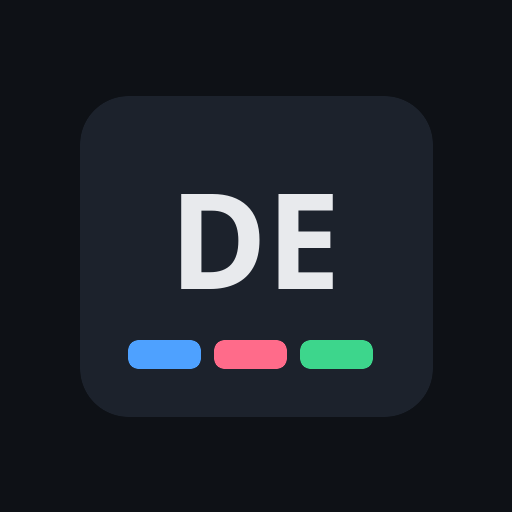
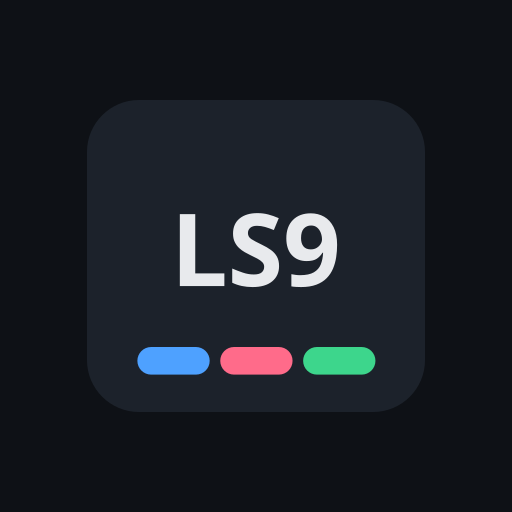
Rename the held legacy public client to LS9 Flashcards

Changed region(s): [[0.3438, 0.375, 0.6562, 0.5625], [0.25, 0.6562, 0.75, 0.75], [0.5938, 0.7188, 0.7188, 0.75]]

diff --git a/src/main.ts b/src/main.ts
@@ -138,7 +138,7 @@ function showDatabaseNotice(event: 'versionchange' | 'blocked'): void {
     document.body.appendChild(banner)
   }
   banner.textContent = event === 'blocked'
-    ? 'A database upgrade is waiting on another tab. Close other German Flashcards tabs and reload.'
+    ? 'A database upgrade is waiting on another tab. Close other LS9 Flashcards tabs and reload.'
     : 'This tab closed its database so another tab can upgrade. Reload to continue.'
 }
 
@@ -242,10 +242,11 @@ async function renderHome() {
   main.innerHTML = `
     <section class="screen">
       <header class="topbar">
-        <h1>German</h1>
+        <h1>LS9 Flashcards</h1>
         <span class="badge" id="sync-line">${esc(syncLineText())}</span>
       </header>
       <div class="due-hero">
+        ${import.meta.env.VITE_LEGACY_COMPAT === 'true' ? '<p class="note">LS9 Flashcards has a <a href="https://licensedsaucer9-web.github.io/ls9-flashcards-site/">new address</a>. Keep this installation until its pending reviews are backed up and recovered.</p>' : ''}
         <p class="kicker">Due now · ${esc(tierLabel(settings.tier))}</p>
         <div class="due-count ${ready ? '' : 'caught-up'}" data-due-count>${due.length}</div>
         <p class="due-label">${
@@ -882,7 +883,7 @@ async function renderGithubSettings() {
       </div>
       <div class="setting">
         <p class="kicker" style="margin:0">GitHub sync</p>
-        <p class="note">Backup: the repo holds the shared word list in <code>${esc(gh.path)}</code> and one file per profile in <code>users/</code>, so every browser (including iPhone Safari) shares progress without two profiles overwriting each other. Paste a <strong>personal access token</strong> (<code>github_pat_</code> or <code>ghp_</code>), not your GitHub password. Fine-grained PAT: Contents read/write on <code>german-flashcards-data</code> only. Token stays in this browser.</p>
+        <p class="note">Backup: the repo holds the shared word list in <code>${esc(gh.path)}</code> and one file per profile in <code>users/</code>, so every browser (including iPhone Safari) shares progress without two profiles overwriting each other. Paste a <strong>personal access token</strong> (<code>github_pat_</code> or <code>ghp_</code>), not your GitHub password. Fine-grained PAT: Contents read/write on <code>ls9-flashcards-data</code> only. Token stays in this browser.</p>
         <form class="form" id="gh-form" style="padding:0" autocomplete="off">
           <label>Owner
             <input name="owner" type="text" autocomplete="username" autocapitalize="off" autocorrect="off" spellcheck="false" value="${esc(gh.owner)}" />

diff --git a/src/github.ts b/src/github.ts
@@ -9,7 +9,7 @@ const SHA_KEY = 'german-flashcards.github.shas'
 const USERS_DIR = 'users'
 
 export const DEFAULT_OWNER = 'licensedsaucer9-web'
-export const DEFAULT_REPO = 'german-flashcards-data'
+export const DEFAULT_REPO = 'ls9-flashcards-data'
 
 export function defaultGithubConfig(): GithubConfig {
   return { token: '', owner: DEFAULT_OWNER, repo: DEFAULT_REPO, path: 'data.json', branch: 'main' }
@@ -26,10 +26,12 @@ export function loadGithubConfig(): GithubConfig {
     const raw = localStorage.getItem(STORAGE_KEY)
     if (!raw) return defaultGithubConfig()
     const o = JSON.parse(raw) as Partial<GithubConfig>
+    const owner = String(o.owner ?? '').trim() || DEFAULT_OWNER
+    const repo = String(o.repo ?? '').trim() || DEFAULT_REPO
     return {
       token: sanitizeToken(String(o.token ?? '')),
-      owner: String(o.owner ?? '').trim() || DEFAULT_OWNER,
-      repo: String(o.repo ?? '').trim() || DEFAULT_REPO,
+      owner,
+      repo: owner === DEFAULT_OWNER && repo === 'german-flashcards-data' ? DEFAULT_REPO : repo,
       path: String(o.path ?? 'data.json').trim() || 'data.json',
       branch: String(o.branch ?? 'main').trim() || 'main',
     }

diff --git a/index.html b/index.html
@@ -4,14 +4,15 @@
     <meta charset="UTF-8" />
     <meta name="viewport" content="width=device-width, initial-scale=1, viewport-fit=cover" />
     <meta name="theme-color" content="#0e1116" />
-    <meta name="description" content="Personal German flashcards with SM-2 spaced repetition" />
+    <meta name="description" content="LS9 Flashcards with SM-2 spaced repetition and offline study" />
     <meta name="apple-mobile-web-app-capable" content="yes" />
+    <meta name="apple-mobile-web-app-title" content="LS9 Flashcards" />
     <meta name="apple-mobile-web-app-status-bar-style" content="black-translucent" />
     <meta name="mobile-web-app-capable" content="yes" />
     <link rel="icon" type="image/svg+xml" href="./favicon.svg" />
     <link rel="icon" type="image/png" sizes="192x192" href="./pwa-192.png" />
     <link rel="apple-touch-icon" href="./apple-touch-icon.png" />
-    <title>German Flashcards</title>
+    <title>LS9 Flashcards</title>
   </head>
   <body>
     <div id="app" class="app has-tabbar">

diff --git a/vite.config.ts b/vite.config.ts
@@ -23,9 +23,9 @@ export default defineConfig({
       injectRegister: false,
       includeAssets: ['favicon.svg', 'apple-touch-icon.png', 'pwa-192.png', 'pwa-512.png', 'pwa-512-maskable.png'],
       manifest: {
-        name: 'German Flashcards',
-        short_name: 'DE Cards',
-        description: 'Personal German SRS flashcards',
+        name: 'LS9 Flashcards',
+        short_name: 'LS9 Cards',
+        description: 'Personal flashcards with spaced repetition and offline study',
         theme_color: '#0e1116',
         background_color: '#0e1116',
         display: 'standalone',

diff --git a/src/db.ts b/src/db.ts
@@ -18,7 +18,7 @@ const DB_VERSION = 1
 
 export class DatabaseBlockedError extends Error {
   constructor() {
-    super('Another tab is blocking a database upgrade. Close other German Flashcards tabs and reload.')
+    super('Another tab is blocking a database upgrade. Close other LS9 Flashcards tabs and reload.')
     this.name = 'DatabaseBlockedError'
   }
 }
